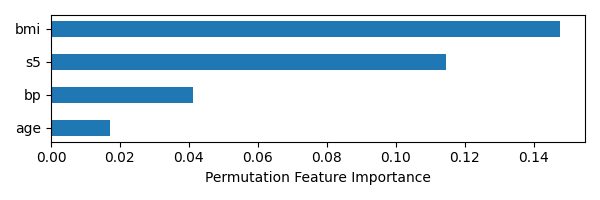
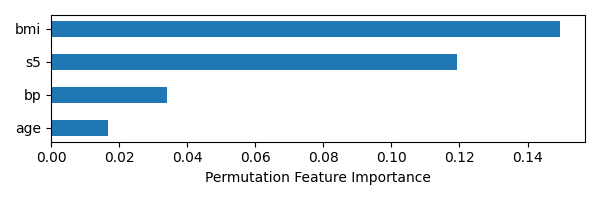
update docs

diff --git a/explainy/explanation/permutation_explanation.py b/explainy/explanation/permutation_explanation.py
@@ -1,13 +1,24 @@
 """
-Created on Tue Nov 24 21:41:40 2020
-
-@author: mauro
+Permutation feature importance
+------------------------------
+Permutation feature importance measures the increase in the prediction error of the model 
+after we permuted the feature's values, which breaks the relationship between 
+the feature and the true outcome [1].
 
 Permutation importance does not reflect to the intrinsic predictive value of 
-a feature by itself but how important this feature is for a particular model.
+a feature by itself but how important this feature is for a particular model [2].
 
-Source:
-https://scikit-learn.org/stable/modules/permutation_importance.html
+Characteristics
+===============
+- global
+- non-contrastive
+
+Source
+======
+[1] Molnar, Christoph. "Interpretable machine learning. A Guide for Making Black Box Models Explainable", 2019. 
+https://christophm.github.io/interpretable-ml-book/
+
+[2] https://scikit-learn.org/stable/modules/permutation_importance.html
 
 """
 import os
@@ -36,9 +47,10 @@ class PermutationExplanation(ExplanationBase):
         config: Dict = None,
     ):
         super(PermutationExplanation, self).__init__(config)
-        """
-        Init the specific explanation class, the base class is "Explanation"
-
+        """        
+        This implementation is a thin wrapper around `sklearn.inspection.permutation_importance
+        <https://scikit-learn.org/stable/modules/permutation_importance.html>`_
+        
         Args:
             X (df): (Test) samples and features to calculate the importance for (sample, features)
             y (np.array): (Test) target values of the samples (samples, 1)
@@ -89,7 +101,7 @@ class PermutationExplanation(ExplanationBase):
 
     def _calculate_importance(self, n_repeats=30):
         """
-        conduct the Permutation Feature Importance and get the importance
+        Calculate the feature importance using the Permuation Feature Importance
 
          Args:
             n_repeats (int, optional): sets the number of times a feature
@@ -127,11 +139,12 @@ class PermutationExplanation(ExplanationBase):
             feature_values.append(
                 (self.feature_names[index], self.r.importances_mean[index])
             )
+
         return feature_values
 
     def box_plot(self):
         """
-        plot the sorted permutation feature importance using a boxplot
+        Plot the sorted permutation feature importance using a boxplot
 
         Returns:
             None.
@@ -156,19 +169,23 @@ class PermutationExplanation(ExplanationBase):
 
     def bar_plot(self):
         """
-        Bar plot of the feature importance
+        Plot the sorted permutation feature importance using a barplot
 
         Returns:
             None.
 
         """
         sorted_idx = self.r.importances_mean.argsort()
-        values = self.r.importances[sorted_idx].T
+        # values = self.r.importances[sorted_idx].T
         labels = [self.feature_names[i] for i in sorted_idx][
             -self.number_of_features :
         ]
 
-        width = np.median(values[:, -self.number_of_features :], axis=0)
+        # width = np.mean(values[:, -self.number_of_features :], axis=0)
+        width = [self.r.importances_mean[i] for i in sorted_idx][
+            -self.number_of_features :
+        ]
+
         y = np.arange(self.number_of_features)
 
         fig = plt.figure(
@@ -185,7 +202,7 @@ class PermutationExplanation(ExplanationBase):
 
     def plot(self, kind="bar"):
         """
-
+        Plot method that calls different kinds of plot types
 
         Args:
             kind (TYPE, optional): DESCRIPTION. Defaults to 'bar'.

diff --git a/README.md b/README.md
@@ -12,9 +12,9 @@
 
 
 
-explainy is a library for generating explanations for machine learning models in Python. It uses methods from **Machine Learning Explainability** and provides a standardized API to create feature importance explanations for samples. The explanations are generated in the form of plots and text.
+explainy is a library for generating machine learning models explanations in Python. It uses methods from **Machine Learning Explainability** and provides a standardized API to create feature importance explanations for samples. The explanations are generated in the form of plots and text.
 
-explainy comes with four different algorithms to create either global or local and contrastive or non-contrastive machine learning model explanations.
+explainy comes with four different algorithms to create either global or local and contrastive or non-contrastive model explanations.
 
 
 ## Documentation
@@ -47,7 +47,9 @@ y_test = pd.DataFrame(y_test)
 model = RandomForestRegressor(random_state=0).fit(X_train, y_train)
 ```
 
-Pass the trained model and the - to be explained - samples into a `PermuationExplanation` (or any other explanation) object. Defined the number of features used in the explanation as well as the index of the sample that should be explained.
+Pass the trained model and the to be explained dataset into a `PermutationExplanation` (or any other explanation) object. 
+
+Define the number of features used in the explanation and the index of the sample that should be explained.
 
 ```python
 from explainy.explanation.permutation_explanation import PermutationExplanation
@@ -63,7 +65,7 @@ explanation = explainer.explain(
     sample_index, separator='\n'
 )
 ```
-Print out the explanation of the sample in scope:
+Print the explanation for the sample. In case of a local explanation every sample as a different explanation.
 
 ```python
 print(explanation)
@@ -74,15 +76,24 @@ print(explanation)
 
 > The four features which were most important for the predictions were (from highest to lowest): 'bmi' (0.15), 's5' (0.12), 'bp' (0.03), and 'age' (0.02).
 
-Plot the feature importance of that sample:
+Plot the feature importance of that sample.
 
 ```python
 explainer.plot()
 ```
 ![Permutation Feature Importance](static/permutation_importance.png)
+
+If your prefer, you can also create another type of plot, as for example a boxplot.
+```python
+explainer.plot(kind='box')
+```
+![Permutation Feature Importance BoxPlot](static/permutation_importance_box.png)
+
+<!-- Finally the result can be saved
+
 ```python
 explainer.save(sample_index)
-```
+``` -->
 
 
 ## Model Explanations
